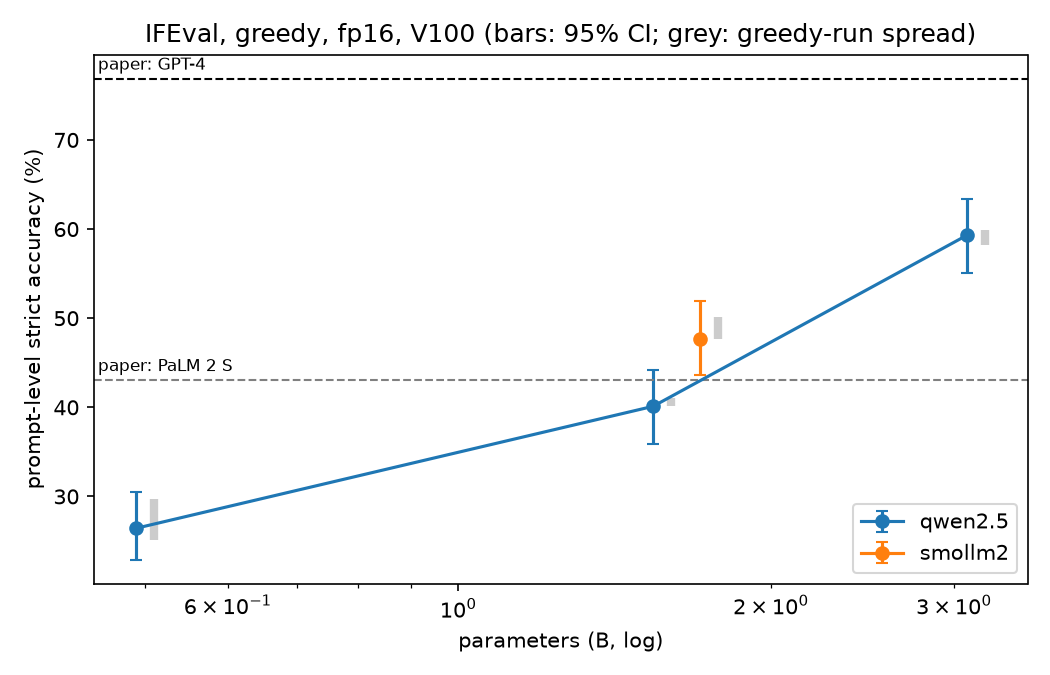
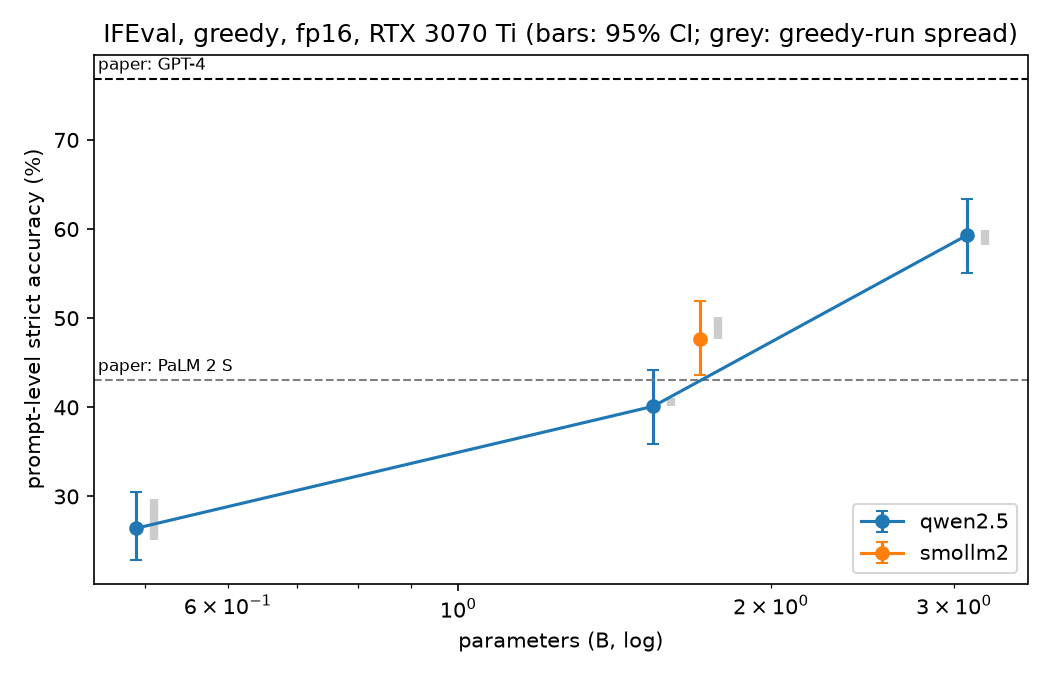
scale.png title uses the recorded GPU name

Changed region(s): [[0.0914, 0.0311, 0.9752, 0.0622]]

diff --git a/ifeval_v100/analyze.py b/ifeval_v100/analyze.py
@@ -338,7 +338,8 @@ def plots(cfg, runs, cache, models, H, pt, spread, out):
     ax.set_xscale("log")
     ax.set_xlabel("parameters (B, log)")
     ax.set_ylabel("prompt-level strict accuracy (%)")
-    ax.set_title("IFEval, greedy, fp16, V100 (bars: 95% CI; grey: greedy-run spread)")
+    gpu = runs[next(iter(runs))]["manifest"]["env"].get("gpu_name", "CPU/unknown").replace("NVIDIA GeForce ", "")
+    ax.set_title(f"IFEval, greedy, fp16, {gpu} (bars: 95% CI; grey: greedy-run spread)")
     ax.legend()
     fig.tight_layout()
     fig.savefig(out / "scale.png", dpi=150)
